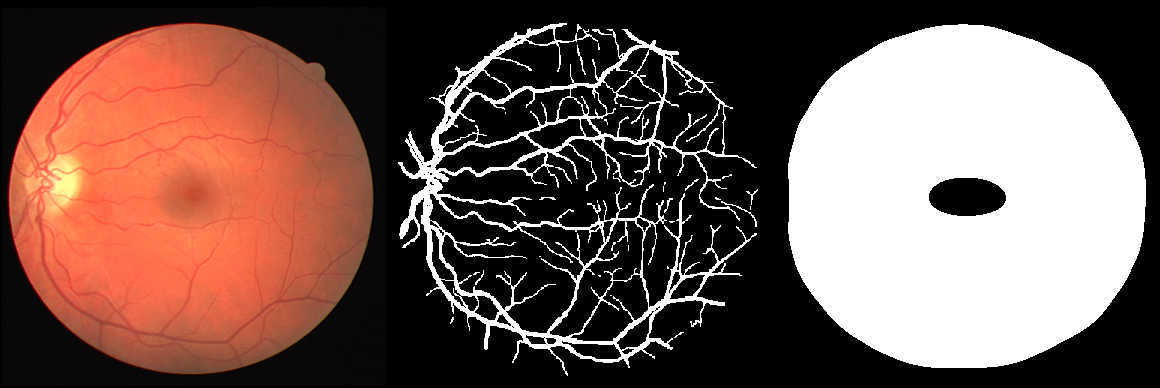
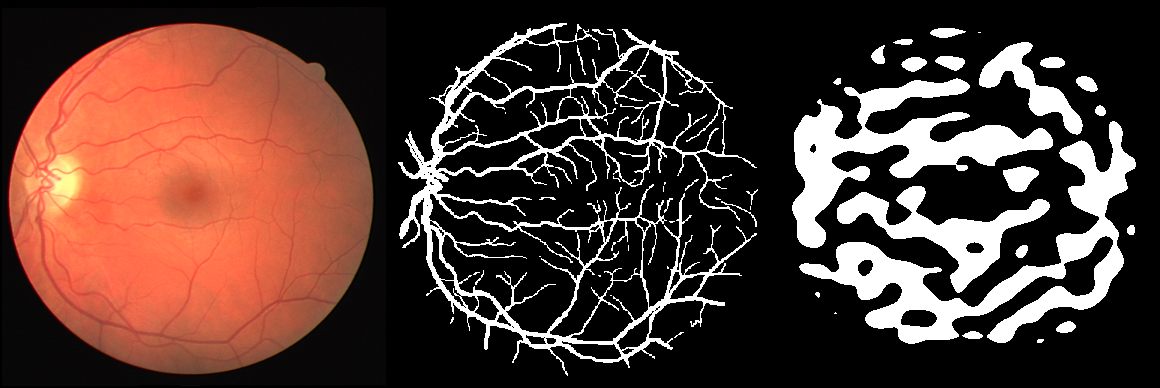
Passed all the retina images through a wiener filter, clahe, gaussian blur to make the vessels stand out more, reconstructed the loss function in mae_pretrain.py to be biased towards learning the vessels more. Changed the loss in train_segmentation.py not to be biased towards dice loss more than Bin

Changed region(s): [[0.6517, 0.0619, 0.9931, 0.9588]]

diff --git a/model.py b/model.py
@@ -50,7 +50,7 @@ class MAE_Encoder(torch.nn.Module):
 
         self.patchify = torch.nn.Conv2d(3, emb_dim, patch_size, patch_size)
 
-        self.transformer = torch.nn.Sequential(*[Block(emb_dim, num_head) for _ in range(num_layer)])
+        self.transformer = torch.nn.ModuleList([Block(emb_dim, num_head) for _ in range(num_layer)])
 
         self.layer_norm = torch.nn.LayerNorm(emb_dim)
 
@@ -69,7 +69,9 @@ class MAE_Encoder(torch.nn.Module):
 
         patches = torch.cat([self.cls_token.expand(-1, patches.shape[1], -1), patches], dim=0)
         patches = rearrange(patches, 't b c -> b t c')
-        features = self.layer_norm(self.transformer(patches))
+        for blk in self.transformer:
+            patches = blk(patches)
+        features = self.layer_norm(patches)
         features = rearrange(features, 'b t c -> t b c')
 
         return features, backward_indexes
@@ -85,7 +87,9 @@ class MAE_Encoder(torch.nn.Module):
         )
 
         patches = rearrange(patches, 't b c -> b t c')
-        features = self.layer_norm(self.transformer(patches))
+        for blk in self.transformer:
+            patches = blk(patches)
+        features = self.layer_norm(patches)
         features = rearrange(features, 'b t c -> t b c')
         return features
 
@@ -164,6 +168,7 @@ class ConvBlock(torch.nn.Module):
         self.gn1 = torch.nn.GroupNorm(num_groups=min(num_groups, out_channels), num_channels=out_channels)
         self.conv2 = torch.nn.Conv2d(out_channels,out_channels,kernel_size=3,padding=1)
         self.gn2 = torch.nn.GroupNorm(num_groups=min(num_groups,out_channels), num_channels=out_channels)
+        self.dropout = torch.nn.Dropout2d(p=0.1)
 
         self.res_conv = None 
         if in_channels != out_channels:
@@ -177,6 +182,8 @@ class ConvBlock(torch.nn.Module):
         out = torch.nn.functional.relu(out, inplace=True)
         out = self.conv2(out)
         out = self.gn2(out)
+        
+        out = self.dropout(out)
         if self.res_conv is not None:
             identity = self.res_conv(identity)
         out = out + identity
@@ -192,25 +199,43 @@ class MAESegmenation(torch.nn.Module):
 
         self.encoder = mae_model.encoder
 
-        for p in self.encoder.parameters():
+        self.input_adapter = torch.nn.Conv2d(4,3,kernel_size=1)
+
+        for name, p in self.encoder.named_parameters():
             p.requires_grad = False 
 
-        self.context = ConvBlock(embed_dim,embed_dim)
+        if isinstance(self.encoder.transformer, torch.nn.ModuleList) and len(self.encoder.transformer) >=2 :
+            for blk in self.encoder.transformer[-2:]:
+                for p in blk.parameters():
+                    p.requires_grad = True
+        for p in self.encoder.layer_norm.parameters():
+            p.requires_grad = True
 
-        self.dec1 = ConvBlock(embed_dim,256) # 24x24, 384 -> 256
+
+        self.context = ConvBlock(embed_dim,embed_dim)
+        
+        self.dec1 = ConvBlock(embed_dim+1,256) # 24x24, 384 -> 256
         self.up1 = torch.nn.Upsample(scale_factor=2, mode='bilinear', align_corners=False) # 24x24->48x48
-        self.dc2 = ConvBlock(256,192) # 48x48 , 256 -> 128
+        self.dc2 = ConvBlock(256,128) # 48x48 , 256 -> 128
         self.up2 = torch.nn.Upsample(scale_factor=2,mode='bilinear',align_corners=False) # 96x96
-        self.dc3 = ConvBlock(192,128) # 96x96, 128 -> 64
+        self.dc3 = ConvBlock(128,64) # 96x96, 128 -> 64
         self.up3 = torch.nn.Upsample(scale_factor=2,mode='bilinear',align_corners=False) # 192x192
-        self.dc4 = ConvBlock(128,64) # 192x 192, 64->32
+        self.dc4 = ConvBlock(64,32) # 192x 192, 64->32
         self.up4 = torch.nn.Upsample(scale_factor=2, mode='bilinear', align_corners=False) # 192 -> 384
-        self.dc5 = ConvBlock(64,32)
-        self.finalConv = torch.nn.Conv2d(32, 1, kernel_size=1)
+        self.dc5 = ConvBlock(32,16)
+        self.finalConv = torch.nn.Conv2d(16, 1, kernel_size=1)
+
+        if self.finalConv.bias is not None:
+            self.finalConv.bias.data.fill_(-2.0)
 
     def forward(self, img):
 
-        features = self.encoder.forward_all_tokens(img)
+        rgb = img[:, :3, :, :]
+        v = img[:, 3:4, :, :]
+
+        fused_for_encoder = self.input_adapter(img)
+
+        features = self.encoder.forward_all_tokens(fused_for_encoder)
         _,B,C = features.shape
         tokens = features[1:] # (576, B, C)
 
@@ -221,6 +246,9 @@ class MAESegmenation(torch.nn.Module):
         tokens = tokens.view(B,H,W,C) # (B,24,24,C)
         feat_map = tokens.permute(0,3,1,2).contiguous()
         feat_map = self.context(feat_map) # (B,C,H,W)
+
+        v_down = torch.nn.functional.interpolate(v, size=feat_map.shape[-2:], mode='bilinear', align_corners=False)
+        feat_map = torch.cat([feat_map, v_down], dim=1)
 
         x = self.dec1(feat_map)
         x = self.up1(x)
@@ -257,5 +285,6 @@ if __name__ == '__main__':
 
     vit_model = MAE_ViT()
     model = MAESegmenation(vit_model)
-    logits = model(predicted_img)
+    seg_input = torch.rand(2,4,384,384)
+    logits = model(seg_input)
     print(logits.shape)

diff --git a/mae_pretrain.py b/mae_pretrain.py
@@ -18,6 +18,7 @@ if __name__ == '__main__':
     parser.add_argument('--max_device_batch_size', type=int, default=5)
     parser.add_argument('--base_learning_rate', type=float, default=1e-5)
     parser.add_argument('--weight_decay', type=float, default=0.05)
+    parser.add_argument('--vessel_weight', type=float, default=4.0)
     parser.add_argument('--mask_ratio', type=float, default=0.6)
     parser.add_argument('--total_epoch', type=int, default=3000)
     parser.add_argument('--warmup_epoch', type=int, default=200)
@@ -31,11 +32,10 @@ if __name__ == '__main__':
     load_batch_size = min(args.max_device_batch_size, batch_size)
 
     assert batch_size % load_batch_size == 0
-    steps_per_update = batch_size // load_batch_size
 
     train_dataset = RetinaDataset('train')
     val_dataset = RetinaDataset('test')
-    val_dataloader = torch.utils.data.DataLoader(val_dataset,load_batch_size, num_workers=0)
+    val_dataloader = torch.utils.data.DataLoader(val_dataset,load_batch_size, num_workers=2)
     dataloader = torch.utils.data.DataLoader(train_dataset, load_batch_size, shuffle=True, num_workers=0)
     writer = SummaryWriter(os.path.join('logs', 'Retina Dataset', 'mae-pretrain'))
     device = torch.device('mps')
@@ -47,15 +47,41 @@ if __name__ == '__main__':
 
     step_count = 0
     optim.zero_grad()
+    best_loss = float('inf')
     for e in range(args.total_epoch):
         model.train()
         losses = []
         for k, (img,_) in enumerate(tqdm(dataloader,desc=f"Epoch {e+1}/{args.total_epoch}")):
             step_count += 1
             img = img.to(device)
+            
+            if img.shape[1] >= 4:
+                vessel_map = img[:, 3:4, : , :]
+                rgb = img[:, :3, : , :]
+            else:
+                vessel_map = None 
+                rgb = img
+
             with torch.autocast(device_type='mps', dtype=torch.float16):
-                predicted_img, mask = model(img)
-                loss = torch.mean((predicted_img - img) ** 2 * mask) / args.mask_ratio
+                
+                predicted_img, mask = model(rgb)
+
+                recon_error = (predicted_img - rgb) ** 2
+
+                if vessel_map is not None:
+                    v_min = vessel_map.amin(dim=(2,3), keepdim=True)
+                    v_max = vessel_map.amax(dim=(2,3), keepdim=True)
+                    vessel_norm = (vessel_map - v_min) / (v_max - v_min + 1e-6)
+
+                    weight = 1.0 + args.vessel_weight * vessel_norm
+                else:
+                    weight = 1.0
+
+                if isinstance(weight, torch.Tensor) and weight.ndim == 4 and weight.shape[1] == 1:
+                    weight = weight.expand_as(recon_error)
+
+                loss = torch.mean(recon_error * mask * weight) / args.mask_ratio
+                
             loss.backward()
             optim.step()
             optim.zero_grad()
@@ -68,13 +94,39 @@ if __name__ == '__main__':
         ''' visualize the first 16 predicted images on val dataset'''
         model.eval()
         with torch.no_grad():
-            val_img = torch.stack([val_dataset[i][0] for i in range(16)])
+            num_val = min(16, len(val_dataset))
+            val_img = torch.stack([val_dataset[i][0] for i in range(num_val)])
             val_img = val_img.to(device)
+
+            if val_img.shape[1] >= 4:
+                val_vessel = val_img[:, 3:4, : , :]
+                val_rgb = val_img[:, :3, :, :]
+            else:
+                val_vessel = None
+                val_rgb = val_img 
+
             predicted_val_img, mask = model(val_img)
-            predicted_val_img = predicted_val_img * mask + val_img * (1 - mask)
+            blended_pred = predicted_val_img * mask + val_rgb * (1 - mask)
+
+            if val_vessel is not None:
+                v_min = val_vessel.amin(dim=(2,3), keepdim=True)
+                v_max = val_vessel.amax(dim=(2,3), keepdim=True)
+                vessel_norm = (val_vessel - v_min) / ( v_max - v_min + 1e-6)
+                weight = 1.0 + args.vessel_weight * vessel_norm
+                weight = weight.expand_as(blended_pred)
+            else:
+                weight = 1.0
+
+
+            val_recon_error = (blended_pred - val_rgb) ** 2
+            val_loss = torch.mean(val_recon_error * mask * weight) / args.mask_ratio
+            print('Validation loss: {:.4f}'.format(val_loss))
             img = torch.cat([val_img * (1 - mask), predicted_val_img, val_img], dim=0)
             img = rearrange(img, '(v h1 w1) c h w -> c (h1 h) (w1 v w)', w1=2, v=3)
             writer.add_image('mae_image', (img + 1) / 2, global_step=e)
         
-        ''' save model '''
-        torch.save(model, args.model_path)
+        if val_loss.item() < best_loss:
+            best_loss = val_loss.item()
+            print('### Best loss: {:.4f}, saving model.'.format(best_loss))
+            ''' save model '''
+            torch.save(model, args.model_path)

diff --git a/train_segmentation.py b/train_segmentation.py
@@ -19,7 +19,7 @@ if __name__ == '__main__':
     parser.add_argument('--seed',type=int,default=42)
     parser.add_argument('--batch_size', type=int, default=4)
     parser.add_argument('--patch_size',type=int,default=16)
-    parser.add_argument('--base_learning_rate',type=float,default=1e-4)
+    parser.add_argument('--base_learning_rate',type=float,default=3e-4)
     parser.add_argument('--max_epochs',type=int,default=300)
     parser.add_argument('--model_path',type=str,default='bestmodel.pt')
 
@@ -56,7 +56,7 @@ if __name__ == '__main__':
     
     def iou_score(pred,target,eps=1e-6):
         i = (pred*target).sum(dim=(2,3))
-        u = pred.sum(dim=(2,3)) + target.sum(dim=(2,3))
+        u = pred.sum(dim=(2,3)) + target.sum(dim=(2,3)) - i
         iou = (i + eps) / (u + eps)
         return iou.mean().item()
 
@@ -65,7 +65,7 @@ if __name__ == '__main__':
     seg_model = MAESegmenation(model)
     seg_model.to(device)
 
-    pos_weight = torch.tensor([5.0], device=device)
+    pos_weight = torch.tensor([2.0], device=device)
     criterion = n.BCEWithLogitsLoss(pos_weight=pos_weight)
     optim = torch.optim.AdamW([p for p in seg_model.parameters() if p.requires_grad],lr=args.base_learning_rate)
     scheduler = torch.optim.lr_scheduler.StepLR(optim, step_size=50, gamma=0.1)
@@ -91,7 +91,7 @@ if __name__ == '__main__':
             probs = torch.sigmoid(logits)
             dl = dice_loss(probs,masks)
 
-            loss = 0.3 * bce + 0.7 * dl 
+            loss = 0.5 * bce + 0.5 * dl
             
             optim.zero_grad()
             loss.backward()
@@ -110,6 +110,9 @@ if __name__ == '__main__':
 
         scheduler.step()
 
+
+    if not os.path.exists(best_model_path):
+        raise FileNotFoundError(f"{best_model_path} not found. Train and save the model first.")
 
     with torch.no_grad():
         state_dict = torch.load(best_model_path,map_location=device)
@@ -137,6 +140,7 @@ if __name__ == '__main__':
             if i < 5:
                 # Take first item in batch
                 img_vis = imgs[0].detach().cpu()
+                img_vis = img_vis[:3]
                 gt_mask = masks[0].detach().cpu()
                 pred_prob = probs[0].detach().cpu()
                 pred_bin = (pred_prob > 0.15).float()

diff --git a/test.py b/test.py
@@ -28,7 +28,7 @@ print("Loading dataset...")
 dataset = RetinaDataset(SPLIT)
 indices = list(range(min(NUM_SHOW, len(dataset))))   # get first few samples
 
-imgs = torch.stack([dataset[i][0] for i in indices]).to(DEVICE)
+imgs = torch.stack([dataset[i][0][:3, :, :] for i in indices]).to(DEVICE)
 
 print("Running inference...")
 with torch.no_grad():

diff --git a/dataset.py b/dataset.py
@@ -36,7 +36,7 @@ class RetinaDataset(Dataset):
             [f for f in os.listdir(self.root_mask) if f.lower().endswith('.png')]
         )
 
-        self.transforms = get_transforms(split)
+        self.transforms = get_transforms()
 
     def __len__(self):
         return min(len(self.image_files), len(self.mask_files))

diff --git a/transforms.py b/transforms.py
@@ -1,6 +1,6 @@
 import albumentations
 
-def get_transforms(split):
+def get_transforms():
         return albumentations.Compose([
             albumentations.Resize(384,384),
             albumentations.Normalize(mean=(0.5,0.5,0.5), std=(0.5,0.5,0.5)),
